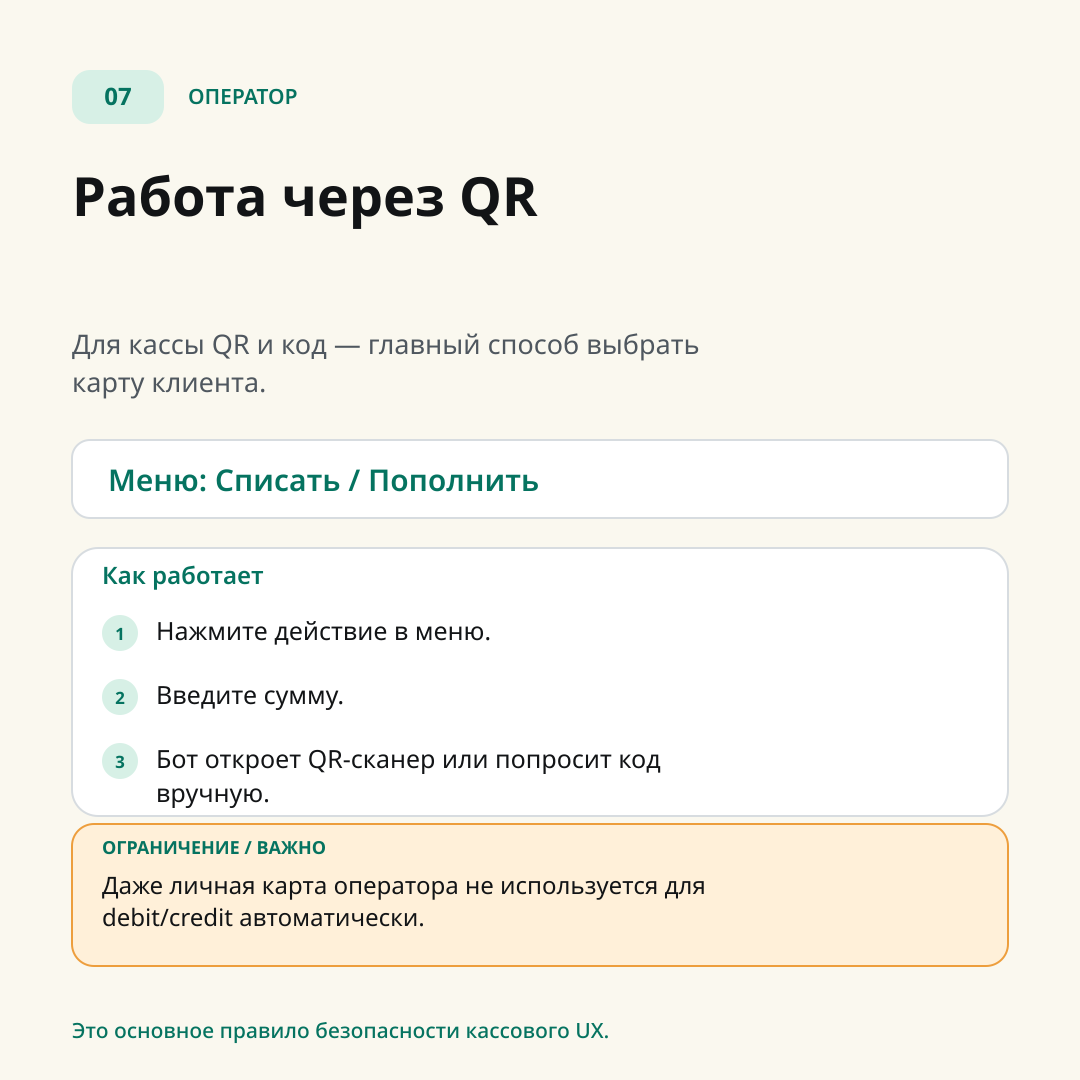
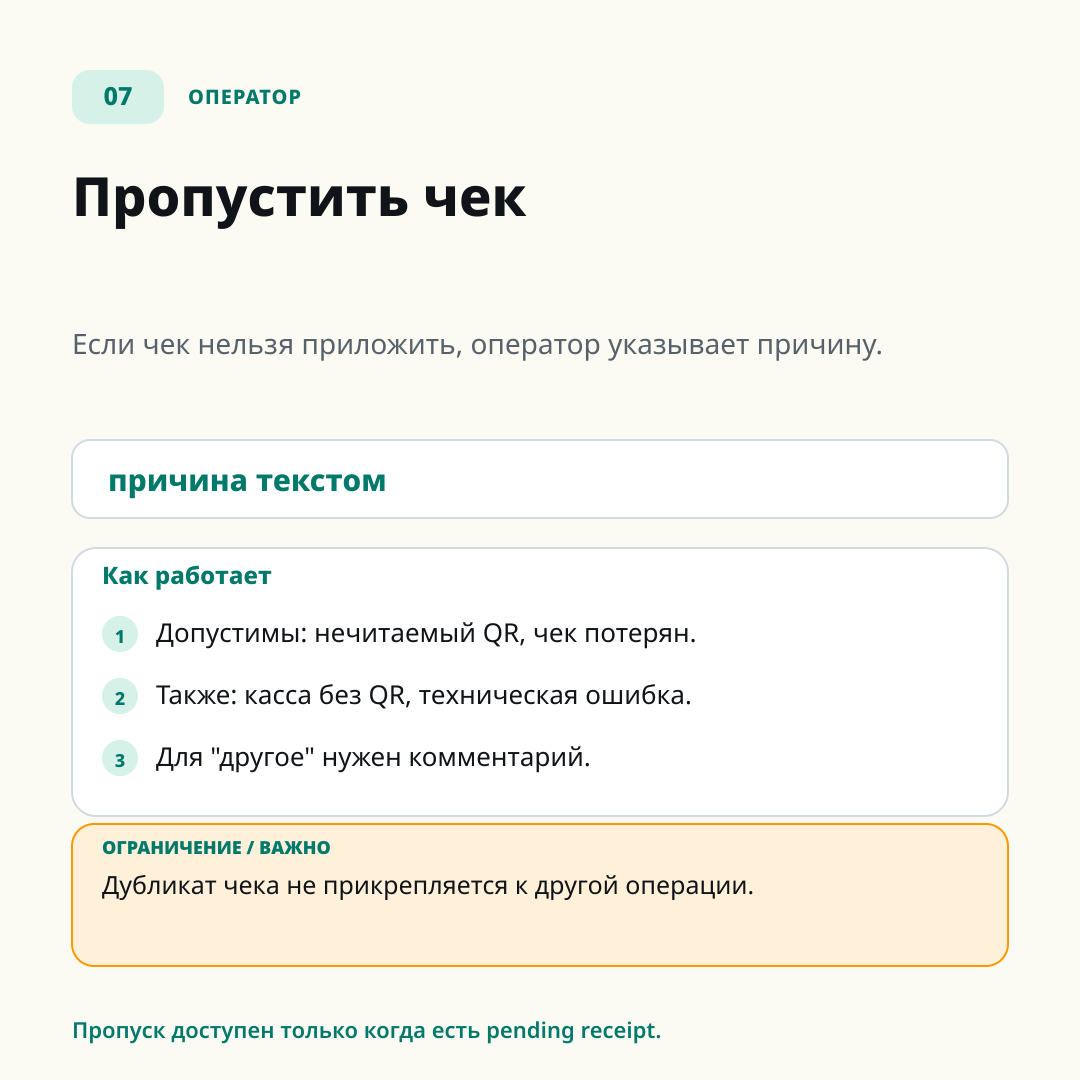
Update Telegram bot docs and cards

diff --git a/docs/telegram-bot-ru.md b/docs/telegram-bot-ru.md
@@ -1,0 +1,78 @@
+# Telegram-бот
+
+Бот обслуживает два типа сценариев: клиентские действия с личной картой и операторские кассовые операции. Роли определяются по Telegram ID: активный оператор находится через `operators.telegram_id`, остальные пользователи работают как клиенты.
+
+## Команды в меню Telegram
+
+Глобальное меню команд получает только клиентские команды:
+
+| Команда | Назначение | Ограничения |
+| --- | --- | --- |
+| `/start` | Показать стартовое сообщение и reply-клавиатуру. | Для активного оператора показывается операторская клавиатура, для клиента — клиентская. |
+| `/balance [код]` | Показать баланс. | Без кода использует текущую привязанную карту. С кодом показывает публичный баланс карты. |
+| `/my_card` | Показать текущую карту клиента с QR и балансом. | Нужен Telegram account. Если карты нет, бот предлагает создать или привязать карту. |
+| `/create_my_card` | Создать личную карту или вернуть уже существующую. | У клиента может быть только одна текущая карта. |
+| `/link [код]` | Привязать существующую карту. | Если код не указан и QR Mini App настроен, бот просит сканировать QR. Если карта уже привязана к пользователю, бот показывает её и не начинает новую привязку. |
+| `/unlink [код]` | Отвязать карту. | Без кода отвязывает текущую карту. После отвязки бот возвращает QR/код карты для восстановления доступа. |
+| `/transfer [код]` | Создать одноразовый код передачи карты. | Без кода использует текущую карту. Передать можно только карту текущего владельца. |
+| `/accept_transfer <код_передачи>` | Принять карту по коду передачи. | Код должен существовать, не быть использованным и не истечь. |
+| `/history [код]` | Показать последние операции. | Без кода использует текущую карту. С кодом история owned card доступна только владельцу или оператору; история карты без владельца публична. |
+
+Операторские команды публикуются отдельно в scope чата каждого активного оператора:
+
+| Команда | Назначение | Ограничения |
+| --- | --- | --- |
+| `/debit <код> <сумма> [описание]` | Списать сумму с карты напрямую. | Только активный оператор. Сумма должна быть больше нуля. После операции бот просит чек. |
+| `/debit <сумма> [описание]` | Начать списание через QR-сканирование карты. | Только активный оператор. Требует настроенный QR Mini App для кнопки сканирования; иначе бот просит ввести код вручную. |
+| `/credit <код> <сумма> [описание]` | Пополнить карту напрямую. | Только активный оператор. Сумма должна быть больше нуля. После операции бот просит чек. |
+| `/credit <сумма> [описание]` | Начать пополнение через QR-сканирование карты. | Только активный оператор. Требует настроенный QR Mini App для кнопки сканирования; иначе бот просит ввести код вручную. |
+| `/create_gift_card <начальная_сумма>` | Создать подарочную карту. | Только активный оператор. Начальная сумма должна быть больше нуля. После создания бот просит чек. |
+
+## Reply-клавиатура
+
+Reply-клавиатура появляется после `/start` и в сценариях QR-сканирования.
+
+Для клиента всегда доступны:
+
+- `💳 Баланс`
+- `📋 История`
+- `🎟 Моя карта`
+
+Если у клиента есть привязанная карта, дополнительно показывается:
+
+- `⛓ Отвязать карту`
+
+Если у клиента нет привязанной карты, показываются:
+
+- `➕ Создать мою карту`
+- `🔗 Привязать карту`
+
+Если состояние привязки определить не удалось, бот показывает оба варианта: создание, привязку и отвязку. Это запасной режим для нештатной ситуации.
+
+Для активного оператора reply-клавиатура содержит клиентские действия и операторские действия:
+
+- `➖ Списать`
+- `➕ Пополнить`
+- `➕ Создать подарочную карту`
+
+Операторские кнопки всё равно проверяют права через `requireBotOperator`; если Telegram ID больше не является активным оператором, операция не запускается.
+
+## QR Mini App
+
+QR Mini App используется для сканирования кодов карт и чеков, если задан `WEB_APP_URL`.
+
+Если `WEB_APP_URL` не задан, бот не показывает web app кнопку и отвечает текстом с ручным fallback: пользователь или оператор вводит код карты или причину пропуска чека сообщением.
+
+QR карты содержит plain text `cards.code`. QR чеков разбирается как фискальный QR payload; если чек не удалось прочитать или приложить, оператор может отправить причину пропуска.
+
+## Чеки после операторских операций
+
+После создания подарочной карты, списания или пополнения бот сохраняет операцию и просит оператора приложить чек.
+
+Оператор может:
+
+- отсканировать QR бумажного или электронного фискального чека;
+- отправить причину пропуска: `нечитаемый QR`, `чек потерян`, `касса без QR`, `техническая ошибка`, `другое <комментарий>`.
+
+Статусы чеков отображаются в истории операций. Клиент видит статусы и ссылки на чеки для `DEBIT` и `CREDIT`; причины пропуска и комментарии предназначены для операторского/административного разбора.
+
